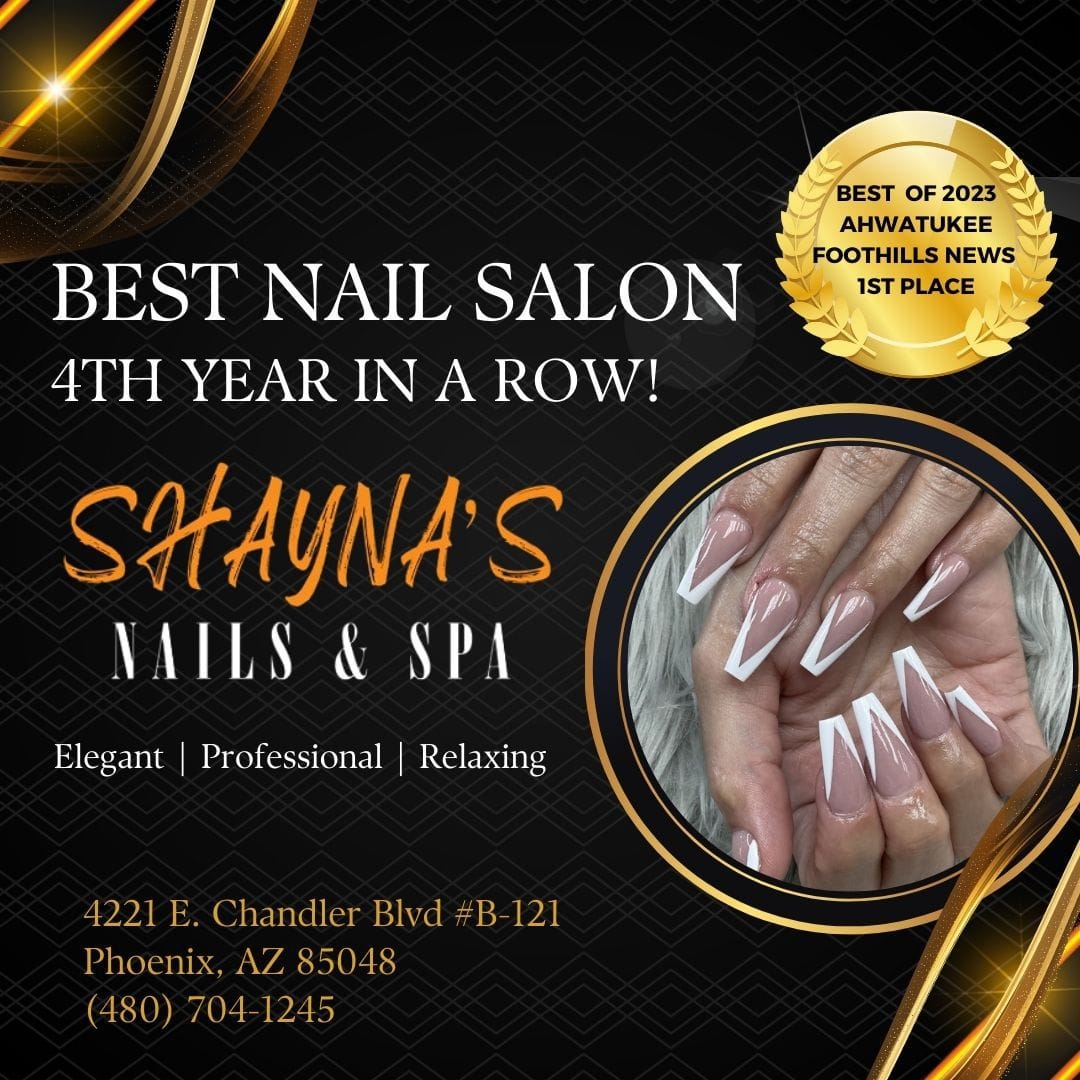
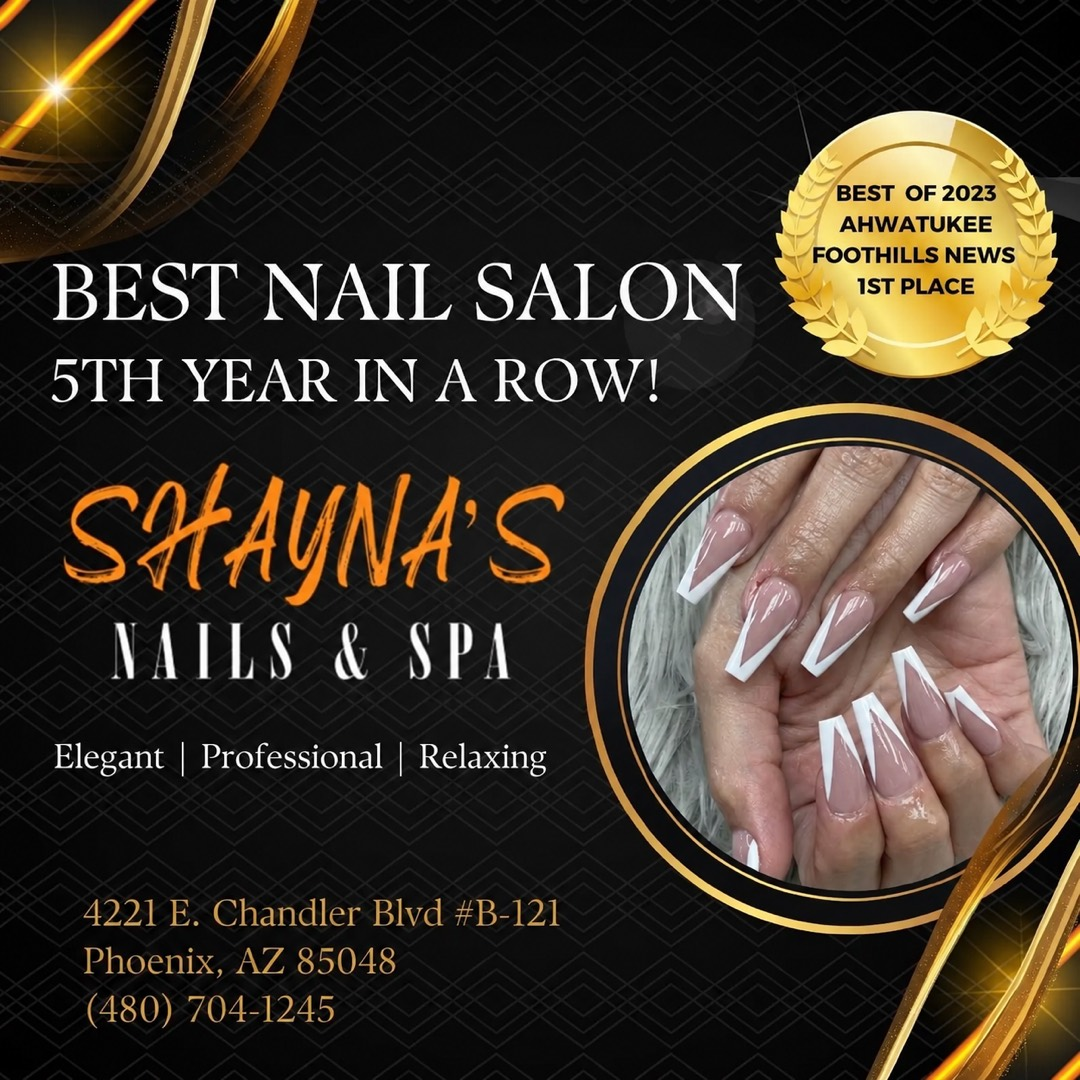
new 5th year image and remove the message us section

diff --git a/src/pages/home.tsx b/src/pages/home.tsx
@@ -1,5 +1,4 @@
 import { Awards } from "@/components/sections/awards"
-import { Contact } from "@/components/sections/contact"
 import { Gallery } from "@/components/sections/gallery"
 import { HomeHero } from "@/components/sections/home-hero"
 import { HomeServices } from "@/components/sections/home-services"
@@ -78,7 +77,6 @@ export default function HomePage() {
       <Awards />
       <Gallery />
       <Reviews />
-      <Contact />
       <Visit />
     </>
   )

diff --git a/src/components/sections/awards.tsx b/src/components/sections/awards.tsx
@@ -7,7 +7,7 @@ export function Awards() {
       >
         <img
           src="/images/award.jpg"
-          alt="Award for Shayna's Nails & Spa"
+          alt="Best Nail Salon, 5th year in a row — Ahwatukee Foothills News Best of 2023, 1st Place"
           loading="lazy"
           className="h-auto w-full"
         />
